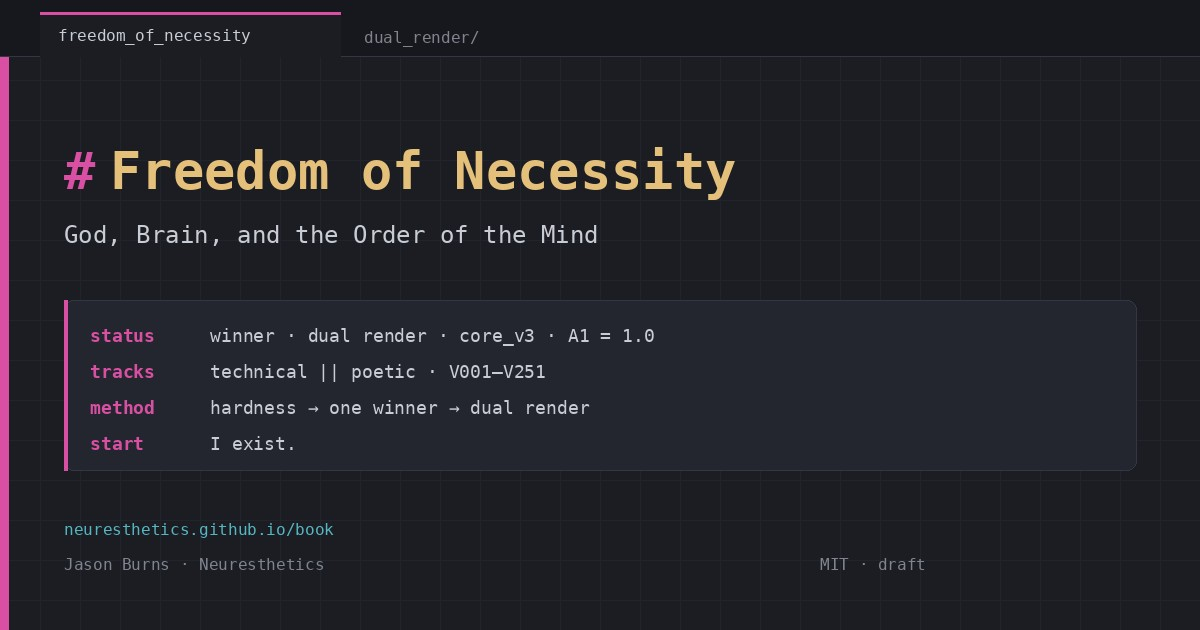
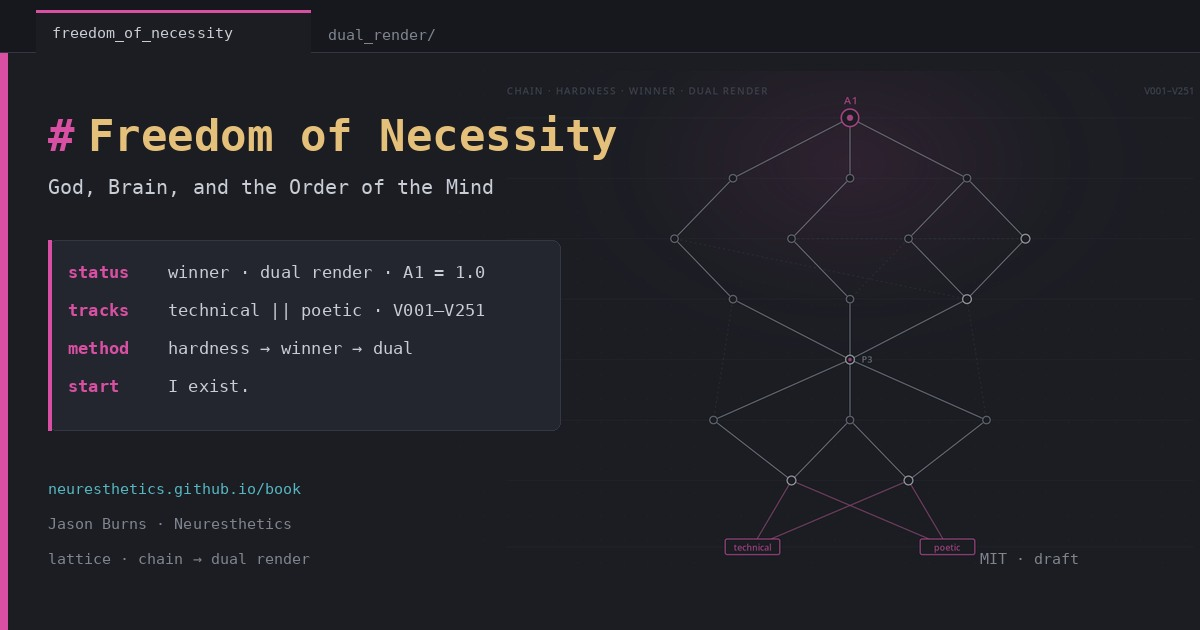
book: SVG dependency lattice motif + OG with lattice
True-vector book-lattice.svg (A1 → chain → P3 → dual render),
laser-cut ink on #1b1d23 with quiet magenta accents. Used as a
pane watermark and small in-pane figure (not a photo banner).
Regenerated book-og.jpg from the SVG for share cards.

diff --git a/book/index.html b/book/index.html
@@ -23,7 +23,7 @@
 <link rel="icon" type="image/jpeg" href="../assets/img/logo-192.jpg">
 <link rel="apple-touch-icon" href="../assets/img/logo-192.jpg">
 <link rel="stylesheet" href="../assets/style.css">
-<link rel="stylesheet" href="../assets/code.css?v=3">
+<link rel="stylesheet" href="../assets/code.css?v=4">
 <link rel="stylesheet" href="../assets/nav.css?v=2">
 </head>
 <body class="theme-code">
@@ -54,6 +54,7 @@
         <span>foreword_origin.md</span>
       </div>
       <div class="pane-body">
+        <img class="lattice-mark" src="../assets/img/book-lattice.svg" alt="" width="800" height="520" aria-hidden="true">
         <h1>Freedom of Necessity</h1>
         <p class="tag"><span class="k">book</span><span class="v">axiom by axiom</span></p>
 
@@ -61,6 +62,11 @@
 <span class="k">tracks</span>  <span class="s">technical || poetic · same V001–V251</span>
 <span class="k">method</span>  <span class="s">hardness → one winner → dual render</span>
 <span class="k">clone</span>   <span class="s">git clone https://github.com/neuresthetics/freedom_of_necessity.git</span></code></pre>
+
+        <figure class="lattice">
+          <img src="../assets/img/book-lattice.svg" width="800" height="520" alt="Dependency lattice: A1 root through the chain to technical and poetic dual render">
+          <figcaption>motif · A1 → chain → hardness → winner → dual render</figcaption>
+        </figure>
 
         <p class="lead">Working title: <em>Freedom of Necessity: God, Brain, and the Order of the Mind.</em> A book written axiom by axiom, in the geometric order of Spinoza's <em>Ethics</em>. It starts from "I exist" and argues that there is one order, Nature, and that the mind is the body's own organization described from within. Freedom isn't escape from causes. It's knowing where a cause comes from and acting from that knowledge. It's part of the Neuresthetics research.</p>
 

diff --git a/assets/code.css b/assets/code.css
@@ -65,6 +65,7 @@
   box-shadow: inset 0 2px 0 var(--accent), 1px 0 0 var(--line);
 }
 .theme-code .pane-body {
+  position: relative;
   padding: 1.85rem 1.85rem 1.5rem;
   box-shadow: inset 3px 0 0 var(--accent);
 }
@@ -209,3 +210,48 @@
   margin: 0 0 0.55rem;
 }
 .theme-code .pane-body ul:not(.md-links) li::marker { color: var(--accent); }
+
+/* Lattice motif — SVG primary; watermark + quiet in-pane figure (not a banner) */
+.theme-code .lattice-mark {
+  position: absolute;
+  right: -1.5rem;
+  top: 0.4rem;
+  width: min(52%, 22rem);
+  height: auto;
+  opacity: 0.11;
+  pointer-events: none;
+  user-select: none;
+  z-index: 0;
+  mix-blend-mode: screen;
+}
+.theme-code .pane-body > :not(.lattice-mark) { position: relative; z-index: 1; }
+
+.theme-code figure.lattice {
+  margin: 0 0 1.35rem;
+  padding: 0.65rem 0.75rem 0.55rem;
+  background: var(--panel);
+  border: 1px solid var(--line);
+  border-radius: 6px;
+  box-shadow: inset 3px 0 0 var(--accent);
+}
+.theme-code figure.lattice img {
+  display: block;
+  width: 100%;
+  max-height: 13.5rem;
+  height: auto;
+  object-fit: contain;
+  object-position: center top;
+  border-radius: 3px;
+}
+.theme-code figure.lattice figcaption {
+  margin-top: 0.45rem;
+  font-size: 0.72rem;
+  letter-spacing: 0.06em;
+  color: var(--dim);
+  text-align: right;
+}
+
+@media (max-width: 640px) {
+  .theme-code .lattice-mark { width: 70%; opacity: 0.08; }
+  .theme-code figure.lattice img { max-height: 10.5rem; }
+}
